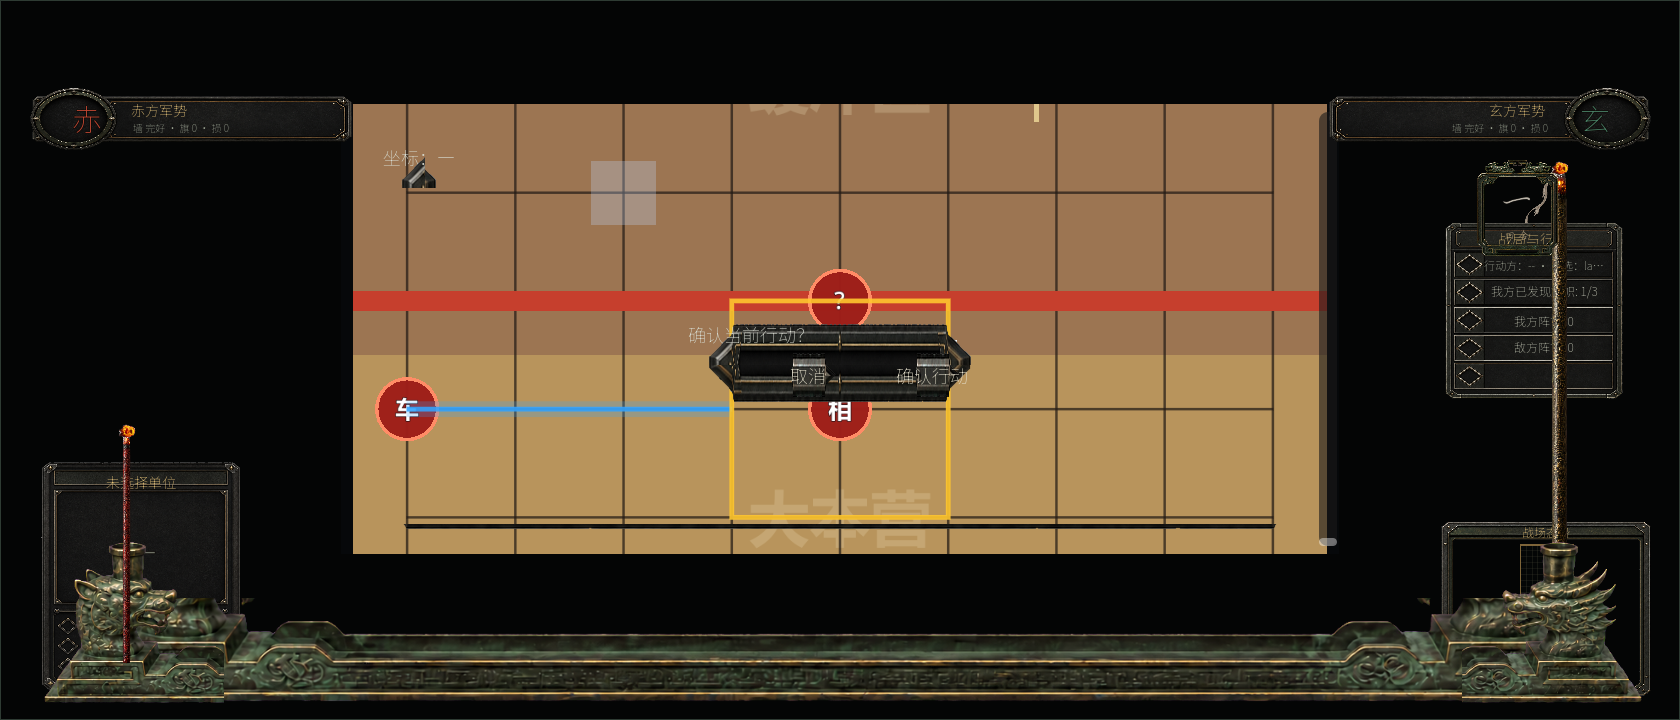
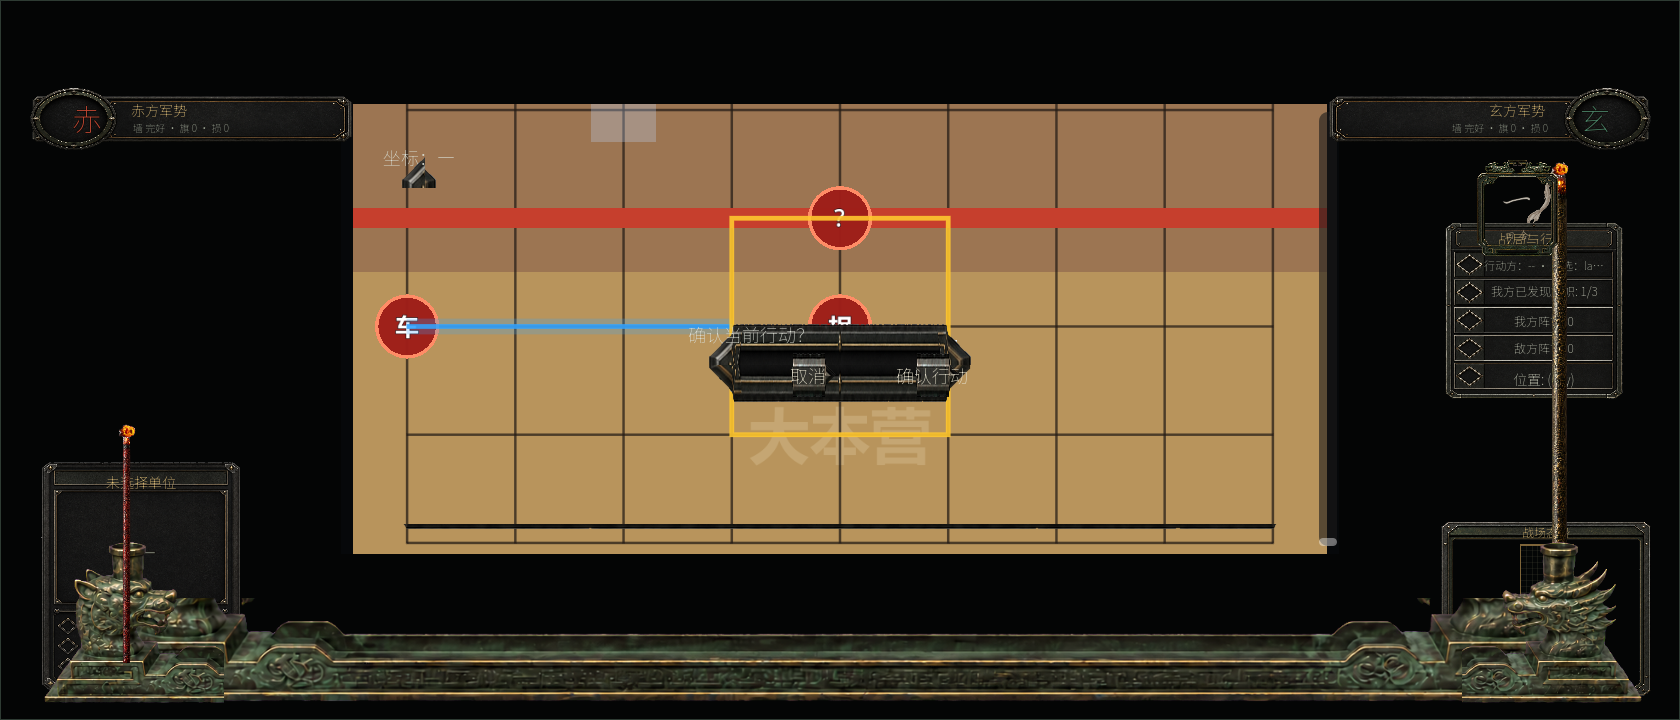
feat: 重新接入棋盘UI布局配置

diff --git a/tools/ui/board_ui_layout_editor.js b/tools/ui/board_ui_layout_editor.js
@@ -36,42 +36,35 @@
   });
 
   const DEFAULT_TEXT_LAYERS = {
-    "turn-status": [textLayer("status", "回合状态", "第十八回合 · 赤方行动", { x: 0.12, y: 0.22, w: 0.76, h: 0.56 }, 16, "center", "turn_status")],
     "faction-left": [
-      textLayer("portrait", "阵营字", "赤", { x: 0.02, y: 0.08, w: 0.24, h: 0.78 }, 30, "center", "faction_glyph"),
-      textLayer("name", "阵营名称", "赤方军势", { x: 0.28, y: 0.20, w: 0.44, h: 0.28 }, 14, "left", "faction_name"),
-      textLayer("turn", "行动状态", "等待行动", { x: 0.28, y: 0.44, w: 0.46, h: 0.17 }, 11, "left", "turn_state"),
-      textLayer("stats", "阵营数据", "墙 完好 · 旗 0 · 损 0", { x: 0.28, y: 0.60, w: 0.50, h: 0.16 }, 10, "left", "faction_stats"),
-      textLayer("return", "返回按钮", "返回", { x: 0.77, y: 0.31, w: 0.20, h: 0.44 }, 11, "center")
+      textLayer("portrait", "阵营字", "赤", { x: 0.09411764705882353, y: 0.16, w: 0.18823529411764706, h: 0.64 }, 30, "center", "faction_glyph"),
+      textLayer("name", "阵营名称", "赤方军势", { x: 0.3202614379084967, y: 0.2916666666666667, w: 0.44, h: 0.20833333333333334 }, 14, "left", "faction_name"),
+      textLayer("stats", "阵营数据", "墙 完好 · 旗 0 · 损 0", { x: 0.32679738562091504, y: 0.5, w: 0.5065359477124183, h: 0.16666666666666666 }, 10, "left", "faction_stats")
     ],
     "faction-right": [
-      textLayer("portrait", "阵营字", "玄", { x: 0.74, y: 0.08, w: 0.24, h: 0.78 }, 30, "center", "faction_glyph"),
-      textLayer("name", "阵营名称", "玄方军势", { x: 0.28, y: 0.20, w: 0.44, h: 0.28 }, 14, "right", "faction_name"),
-      textLayer("turn", "行动状态", "等待行动", { x: 0.26, y: 0.44, w: 0.46, h: 0.17 }, 11, "right", "turn_state"),
-      textLayer("stats", "阵营数据", "墙 完好 · 旗 0 · 损 0", { x: 0.22, y: 0.60, w: 0.50, h: 0.16 }, 10, "right", "faction_stats"),
-      textLayer("mirror", "镜像按钮", "镜像", { x: 0.03, y: 0.31, w: 0.22, h: 0.44 }, 10, "center")
+      textLayer("portrait", "阵营字", "玄", { x: 0.7215686274509804, y: 0.16, w: 0.18823529411764706, h: 0.64 }, 30, "center", "faction_glyph"),
+      textLayer("name", "阵营名称", "玄方军势", { x: 0.21960784313725493, y: 0.29455445544554454, w: 0.44554455445544555, h: 0.2103960396039604 }, 14, "right", "faction_name"),
+      textLayer("stats", "阵营数据", "墙 完好 · 旗 0 · 损 0", { x: 0.16501650165016502, y: 0.504950495049505, w: 0.5115511551155115, h: 0.1683168316831683 }, 10, "right", "faction_stats")
     ],
     "unit-info": [
       textLayer("name", "单位名称", "未选择单位", { x: 0.14, y: 0.055, w: 0.72, h: 0.09 }, 14, "center", "unit_name"),
-      textLayer("glyph", "棋子字", "—", { x: 0.15, y: 0.18, w: 0.70, h: 0.40 }, 44, "center", "unit_glyph"),
-      textLayer("side", "阵营状态", "阵营：—", { x: 0.20, y: 0.685, w: 0.60, h: 0.06 }, 11, "left", "unit_side"),
-      textLayer("position", "单位坐标", "坐标：—", { x: 0.20, y: 0.77, w: 0.60, h: 0.06 }, 11, "left", "unit_position"),
-      textLayer("state", "单位状态", "状态：—", { x: 0.20, y: 0.855, w: 0.60, h: 0.065 }, 11, "left", "unit_state")
+      textLayer("glyph", "棋子字", "—", { x: 0.1348314606741573, y: 0.16806722689075632, w: 0.7, h: 0.4 }, 44, "center", "unit_glyph"),
+      textLayer("side", "阵营状态", "阵营：—", { x: 0.24456521739130435, y: 0.6706704420898795, w: 0.6, h: 0.06 }, 11, "left", "unit_side"),
+      textLayer("position", "单位坐标", "坐标：—", { x: 0.24456521739130435, y: 0.7519638290098648, w: 0.6, h: 0.06 }, 11, "left", "unit_position"),
+      textLayer("state", "单位状态", "状态：—", { x: 0.24456521739130435, y: 0.8332572159298502, w: 0.6, h: 0.065 }, 11, "left", "unit_state")
     ],
     "objective-events": [
-      textLayer("heading", "面板标题", "战局与行动", { x: 0.15, y: 0.155, w: 0.70, h: 0.065 }, 14, "center"),
-      textLayer("selection", "选择状态", "行动方：— · 已选：无", { x: 0.14, y: 0.21, w: 0.72, h: 0.065 }, 11, "center", "selection_status"),
-      textLayer("move", "移动按钮", "移动", { x: 0.14, y: 0.285, w: 0.36, h: 0.1825 }, 12, "center"),
-      textLayer("bombard", "炮击按钮", "炮击", { x: 0.50, y: 0.285, w: 0.36, h: 0.1825 }, 12, "center"),
-      textLayer("resurrect", "复活按钮", "复活", { x: 0.14, y: 0.4675, w: 0.36, h: 0.1825 }, 12, "center"),
-      textLayer("pass", "跳过按钮", "跳过", { x: 0.50, y: 0.4675, w: 0.36, h: 0.1825 }, 12, "center"),
-      textLayer("message", "提示信息", "提示：选择棋子后选择目标交点。", { x: 0.15, y: 0.675, w: 0.70, h: 0.125 }, 10, "left", "message")
+      textLayer("heading", "面板标题", "战局与行动", { x: 0.19444444444444445, y: 0.16666666666666666, w: 0.6111111111111112, h: 0.065 }, 14, "center"),
+      textLayer("selection", "选择状态", "行动方：— · 已选：无", { x: 0.2951388888888889, y: 0.2777777777777778, w: 0.5, h: 0.065 }, 11, "center", "selection_status"),
+      textLayer("move", "我方已发现旗帜数", "我方已发现旗帜: 0/3", { x: 0.2951388888888889, y: 0.37037037037037035, w: 0.5, h: 0.06481481481481481 }, 12, "center"),
+      textLayer("bombard", "我方阵亡:", "我方阵亡:", { x: 0.2951388888888889, y: 0.48148148148148145, w: 0.5, h: 0.06481481481481481 }, 12, "center"),
+      textLayer("pass", "敌方阵亡:", "敌方阵亡:", { x: 0.2951388888888889, y: 0.5833333333333334, w: 0.5, h: 0.06481481481481481 }, 12, "center"),
+      textLayer("text-1787297730520-1", "位置", "位置: (x, y)", { x: 0.2951388888888889, y: 0.6921296296296297, w: 0.5, h: 0.06481481481481481 }, 14, "center")
     ],
-    "action-bar": [textLayer("actions", "行动指令", "移动　攻击　技能　结束回合", { x: 0.08, y: 0.20, w: 0.84, h: 0.60 }, 14, "center")],
-    "minimap": [textLayer("title", "小地图标题", "战场态势", { x: 0.18, y: 0.04, w: 0.64, h: 0.10 }, 12, "center")]
+    "minimap": [textLayer("title", "小地图标题", "战场态势", { x: 0.18, y: 0.04, w: 0.64, h: 0.1 }, 12, "center")]
   };
 
-  const DEFAULT_BOARD_RECT = { x: 340, y: 48, w: 600, h: 536 };
+  const DEFAULT_BOARD_RECT = { x: 340, y: 32, w: 600, h: 544 };
   const DEFAULT_CATALOG = [
     {
       id: "faction-left",
@@ -81,7 +74,7 @@
       asset: "res://assets/art/ui/terracotta_hud_v2/faction_status_plate_v1.png",
       visible: true,
       lockAspect: true,
-      baseRect: { x: 48, y: 48, w: 255, h: 100 }
+      baseRect: { x: 48, y: 10, w: 306, h: 120 }
     },
     {
       id: "faction-right",
@@ -92,7 +85,7 @@
       mirrorX: true,
       visible: true,
       lockAspect: true,
-      baseRect: { x: 976, y: 48, w: 255, h: 100 }
+      baseRect: { x: 928, y: 10, w: 303, h: 119 }
     },
     {
       id: "unit-info",
@@ -102,7 +95,7 @@
       asset: "res://assets/art/ui/terracotta_hud_v2/unit_info_card_v1.png",
       visible: true,
       lockAspect: true,
-      baseRect: { x: 64, y: 448, w: 178, h: 238 }
+      baseRect: { x: 129, y: 408, w: 184, h: 246 }
     },
     {
       id: "objective-events",
@@ -112,7 +105,7 @@
       asset: "res://assets/art/ui/terracotta_hud_v2/objective_event_panel_v1.png",
       visible: true,
       lockAspect: true,
-      baseRect: { x: 952, y: 80, w: 296, h: 512 }
+      baseRect: { x: 916, y: 220, w: 288, h: 432 }
     },
     {
       id: "minimap",
@@ -122,30 +115,70 @@
       asset: "res://assets/art/ui/terracotta_hud_v2/minimap_frame_v1.png",
       visible: true,
       lockAspect: true,
-      baseRect: { x: 64, y: 152, w: 234, h: 256 }
+      baseRect: { x: 64, y: 130, w: 241, h: 264 }
     },
     {
       id: "custom-ui-1787265872199-1",
-      name: "回合进度条",
+      name: "回合香",
       function: "用燃香展示当前回合进度。",
       kind: "image",
       asset: "res://assets/art/ui/terracotta_hud_v2/turn_progress_incense/turn_progress_incense_preview_v1.png",
       visible: true,
       lockAspect: false,
-      baseRect: { x: 256, y: 600, w: 952, h: 72 }
+      baseRect: { x: 1168, y: 272, w: 40, h: 408 }
+    },
+    {
+      id: "custom-ui-1787292062912-1",
+      name: "棋子信息展开栏",
+      function: "需要包含棋子的移动技能",
+      kind: "custom",
+      visible: true,
+      lockAspect: false,
+      baseRect: { x: 296, y: 584, w: 648, h: 56 }
+    },
+    {
+      id: "custom-ui-1787292347530-2",
+      name: "香盘",
+      function: "香盘",
+      kind: "custom",
+      visible: true,
+      lockAspect: false,
+      baseRect: { x: 64, y: 676, w: 1152, h: 40 }
+    },
+    {
+      id: "custom-ui-1787292377548-3",
+      name: "计时香",
+      function: "倒计时",
+      kind: "custom",
+      visible: true,
+      lockAspect: false,
+      baseRect: { x: 72, y: 443, w: 48, h: 232 }
+    },
+    {
+      id: "custom-ui-1787293016650-4",
+      name: "回合数显示区",
+      function: "回合数显示区",
+      kind: "custom",
+      visible: true,
+      lockAspect: false,
+      baseRect: { x: 1104, y: 160, w: 104, h: 96 }
     }
   ];
 
   const DEFAULT_PROFILE_LAYOUTS = {
     "1280x720": {
-      board: { x: 340, y: 48, w: 600, h: 536 },
+      board: { x: 340, y: 32, w: 600, h: 544 },
       uiRects: {
-        "faction-left": { x: 48, y: 48, w: 255, h: 100 },
-        "faction-right": { x: 976, y: 48, w: 255, h: 100 },
-        "unit-info": { x: 64, y: 448, w: 178, h: 238 },
-        "objective-events": { x: 952, y: 80, w: 296, h: 512 },
-        "minimap": { x: 64, y: 152, w: 234, h: 256 },
-        "custom-ui-1787265872199-1": { x: 256, y: 600, w: 952, h: 72 }
+        "faction-left": { x: 48, y: 10, w: 306, h: 120 },
+        "faction-right": { x: 928, y: 10, w: 303, h: 118.8235294117647 },
+        "unit-info": { x: 129, y: 408, w: 184, h: 246.02247191011238 },
+        "objective-events": { x: 916, y: 220, w: 288, h: 432 },
+        "minimap": { x: 64, y: 130, w: 241.3125, h: 264 },
+        "custom-ui-1787265872199-1": { x: 1168, y: 272, w: 40, h: 408 },
+        "custom-ui-1787292062912-1": { x: 296, y: 584, w: 648, h: 56 },
+        "custom-ui-1787292347530-2": { x: 64, y: 676, w: 1152, h: 40 },
+        "custom-ui-1787292377548-3": { x: 72, y: 443, w: 48, h: 232 },
+        "custom-ui-1787293016650-4": { x: 1104, y: 160, w: 104, h: 96 }
       }
     },
     "1680x720": {
@@ -156,7 +189,11 @@
         "unit-info": { x: 24, y: 458, w: 234, h: 238 },
         "objective-events": { x: 1412, y: 183, w: 244, h: 268 },
         "minimap": { x: 1436, y: 516, w: 221, h: 184 },
-        "custom-ui-1787265872199-1": { x: 420, y: 600, w: 1155, h: 72 }
+        "custom-ui-1787265872199-1": { x: 1533, y: 168, w: 53, h: 496 },
+        "custom-ui-1787292062912-1": { x: 304.5, y: 592, w: 903, h: 88 },
+        "custom-ui-1787292347530-2": { x: 84, y: 664, w: 1512, h: 40 },
+        "custom-ui-1787292377548-3": { x: 94.5, y: 432, w: 63, h: 232 },
+        "custom-ui-1787293016650-4": { x: 1449, y: 160, w: 136.5, h: 96 }
       }
     },
     "1280x800": {
@@ -167,7 +204,11 @@
         "unit-info": { x: 18, y: 509, w: 178, h: 264 },
         "objective-events": { x: 1076, y: 203, w: 186, h: 298 },
         "minimap": { x: 1094, y: 573, w: 168, h: 204 },
-        "custom-ui-1787265872199-1": { x: 320, y: 667, w: 880, h: 80 }
+        "custom-ui-1787265872199-1": { x: 1168, y: 187, w: 40, h: 551 },
+        "custom-ui-1787292062912-1": { x: 232, y: 657.7777777777778, w: 688, h: 97.77777777777777 },
+        "custom-ui-1787292347530-2": { x: 64, y: 737.7777777777778, w: 1152, h: 44.44444444444444 },
+        "custom-ui-1787292377548-3": { x: 72, y: 480, w: 48, h: 257.77777777777777 },
+        "custom-ui-1787293016650-4": { x: 1104, y: 177.77777777777777, w: 104, h: 106.66666666666667 }
       }
     },
     "1280x960": {
@@ -178,7 +219,11 @@
         "unit-info": { x: 18, y: 611, w: 178, h: 317 },
         "objective-events": { x: 1076, y: 244, w: 186, h: 357 },
         "minimap": { x: 1094, y: 688, w: 168, h: 245 },
-        "custom-ui-1787265872199-1": { x: 320, y: 800, w: 880, h: 96 }
+        "custom-ui-1787265872199-1": { x: 1168, y: 224, w: 40, h: 661 },
+        "custom-ui-1787292062912-1": { x: 232, y: 789.3333333333333, w: 688, h: 117.33333333333333 },
+        "custom-ui-1787292347530-2": { x: 64, y: 885.3333333333334, w: 1152, h: 53.33333333333333 },
+        "custom-ui-1787292377548-3": { x: 72, y: 576, w: 48, h: 309.33333333333337 },
+        "custom-ui-1787293016650-4": { x: 1104, y: 213.33333333333331, w: 104, h: 128 }
       }
     }
   };
